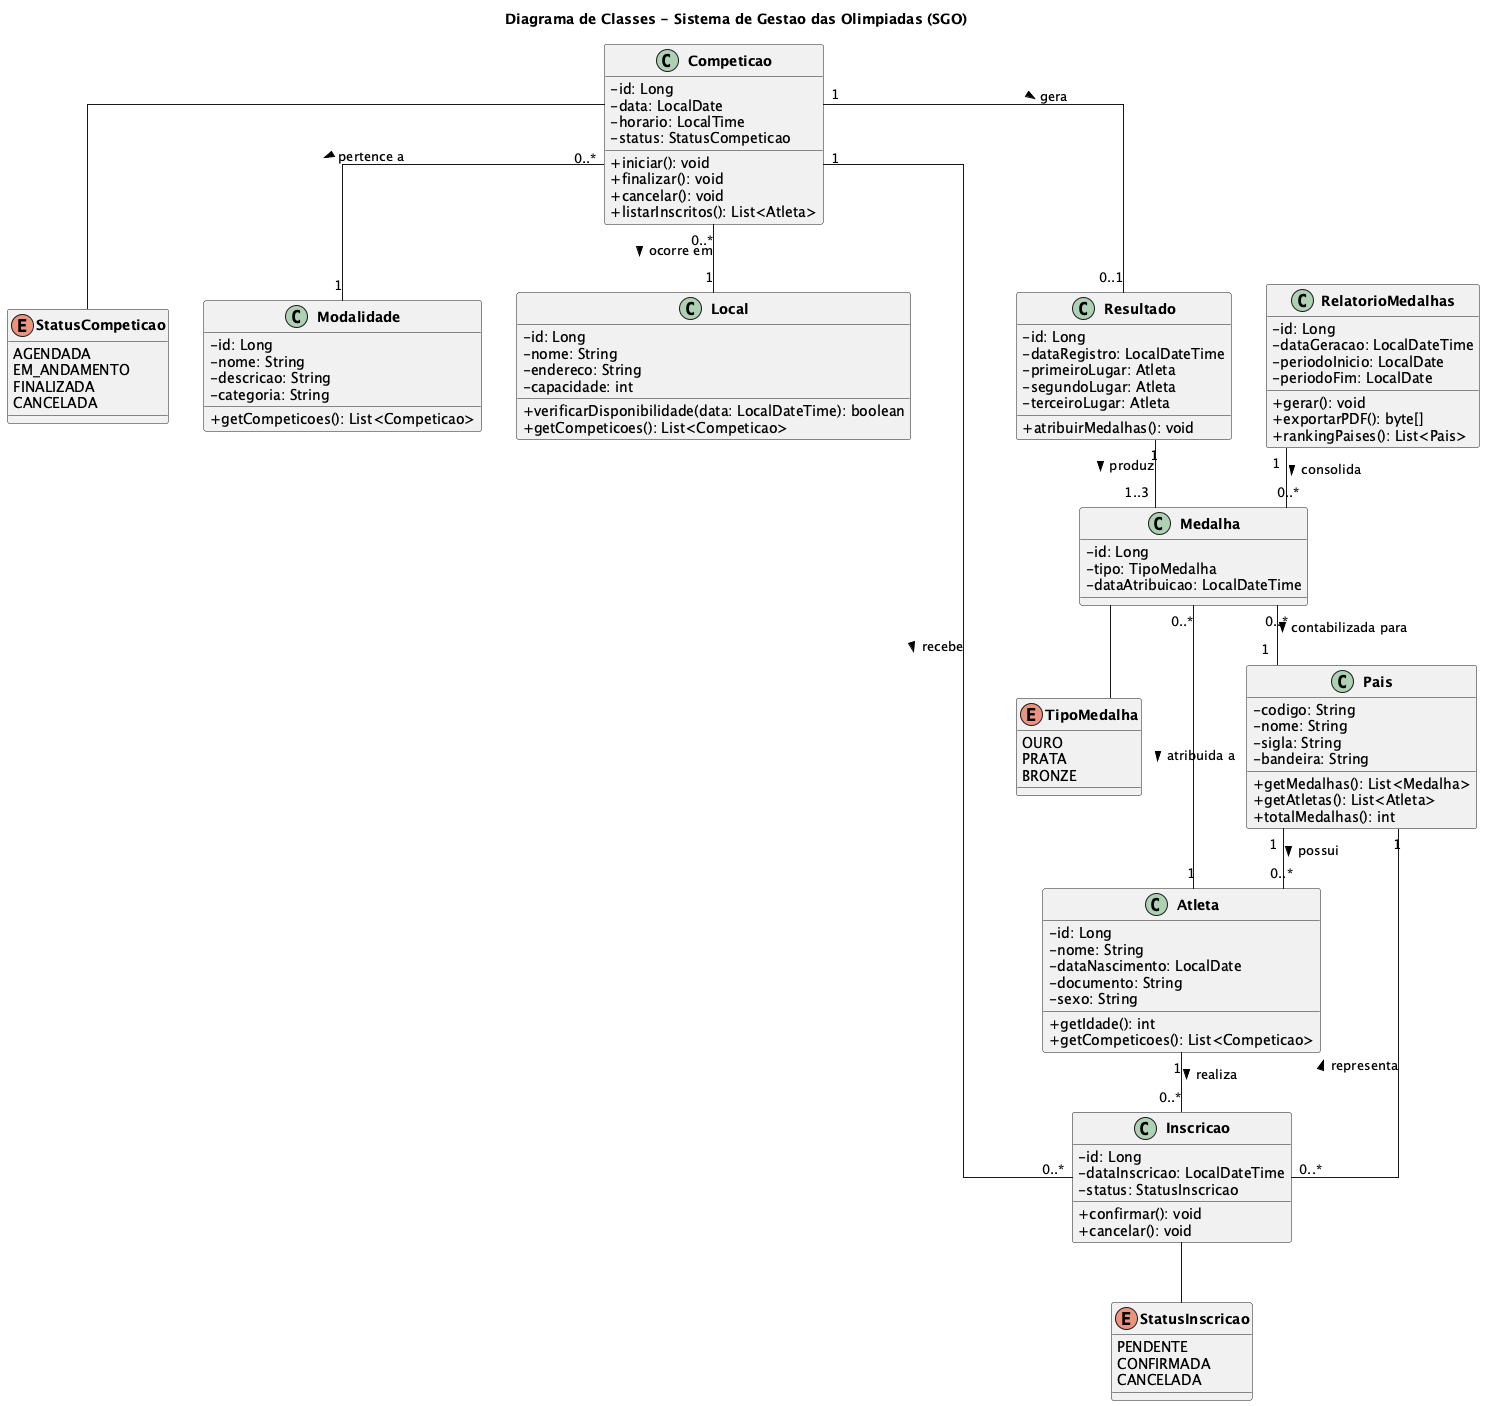
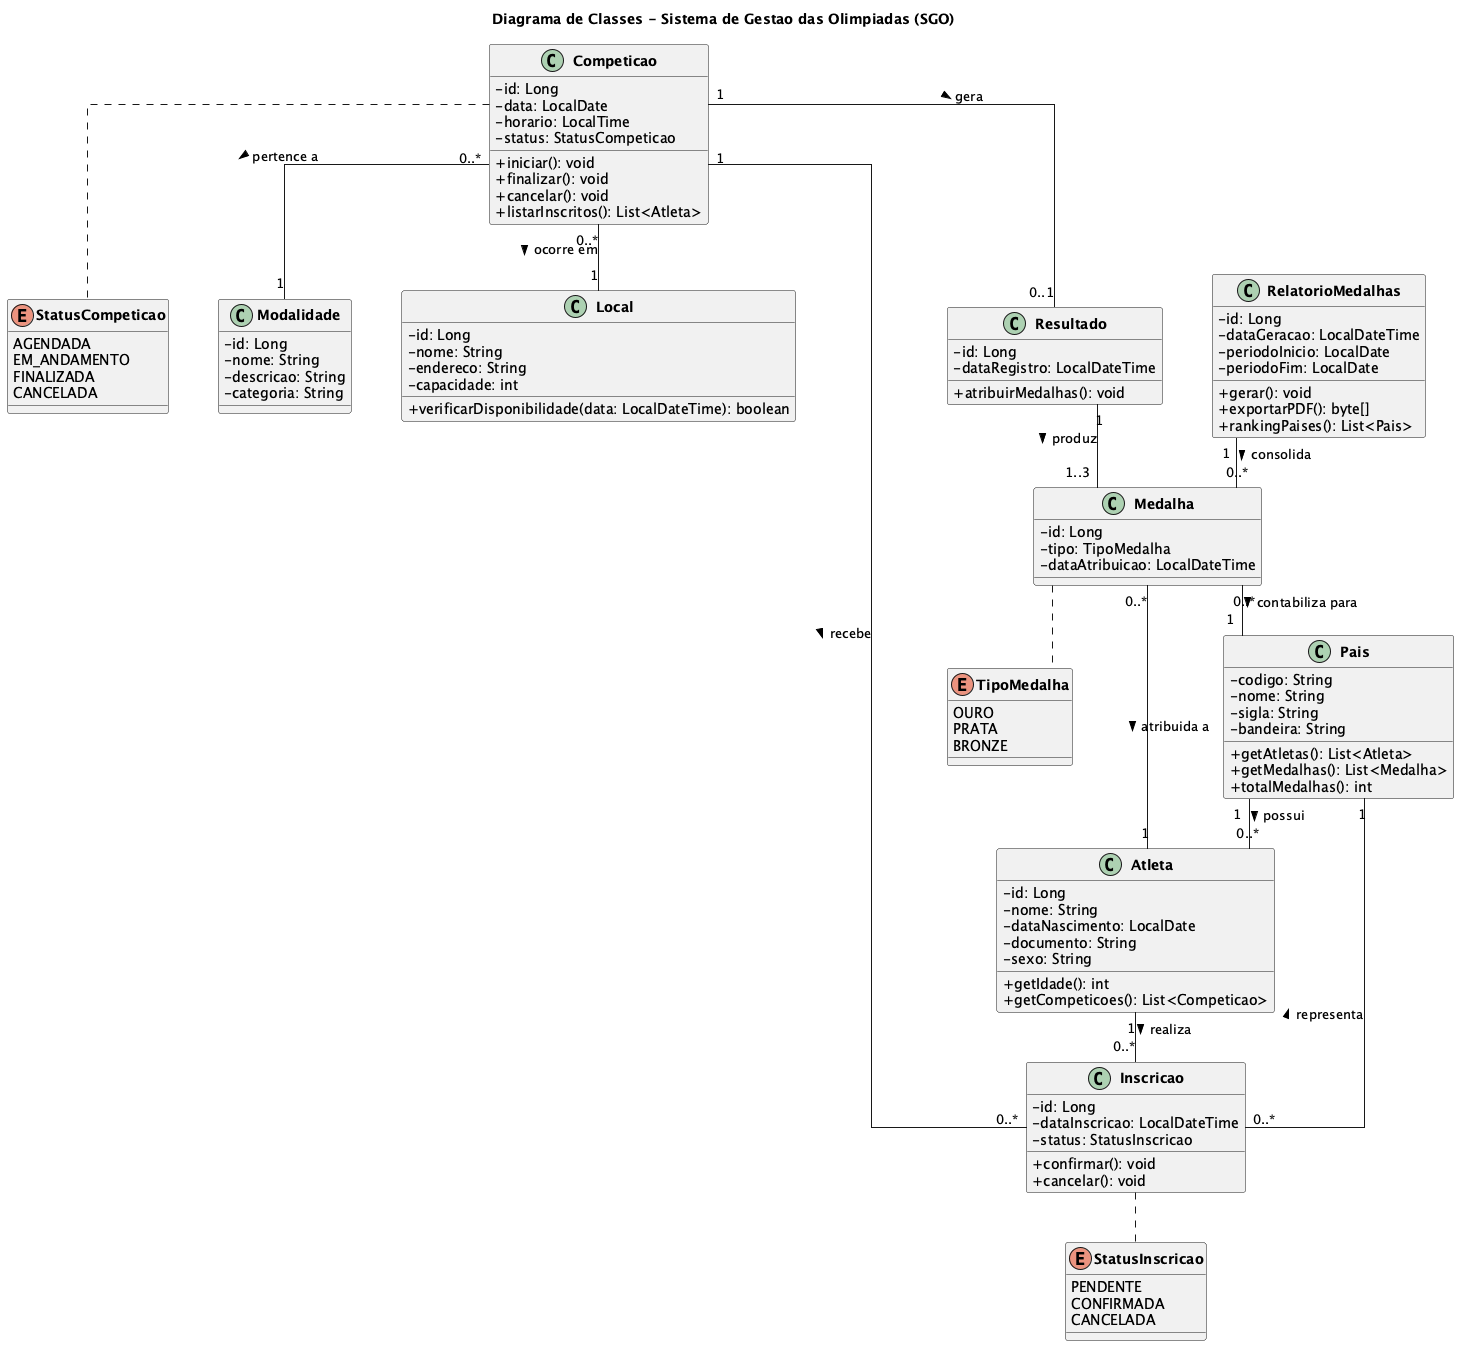
refactor: melhora diagramas e renomeia implantacao com cedilha - Caso de Uso: corrige relacoes <<include>>/<<extend>> (UC01 nao extends   UC02/UC03; UC05 nao extends UC04). Mantem includes obrigatorios e   adiciona extends validos (Cancelar Inscricao, Ver Detalhes). - Classes: remove atributos redun

diff --git a/README.md b/README.md
@@ -84,7 +84,7 @@ Com a chegada das Olimpíadas, um novo sistema de gestão é necessário para co
 
 ### Diagrama de Implantação
 
-<img width="700px" src="imagens/diagrama-de-implantacao.png" alt="Diagrama de Implantação"/>
+<img width="700px" src="imagens/diagrama-de-implantação.png" alt="Diagrama de Implantação"/>
 
 ## Estrutura do Repositório
 
@@ -96,13 +96,13 @@ Trabalho-SGO/
 │   ├── diagrama-de-classes.png
 │   ├── diagrama-de-pacotes.png
 │   ├── diagrama-de-componentes.png
-│   └── diagrama-de-implantacao.png
+│   └── diagrama-de-implantação.png
 └── codigos/
     ├── diagrama-de-caso-de-uso.puml
     ├── diagrama-de-classes.puml
     ├── diagrama-de-pacotes.puml
     ├── diagrama-de-componentes.puml
-    └── diagrama-de-implantacao.puml
+    └── diagrama-de-implantação.puml
 ```
 
 ## Tecnologia
